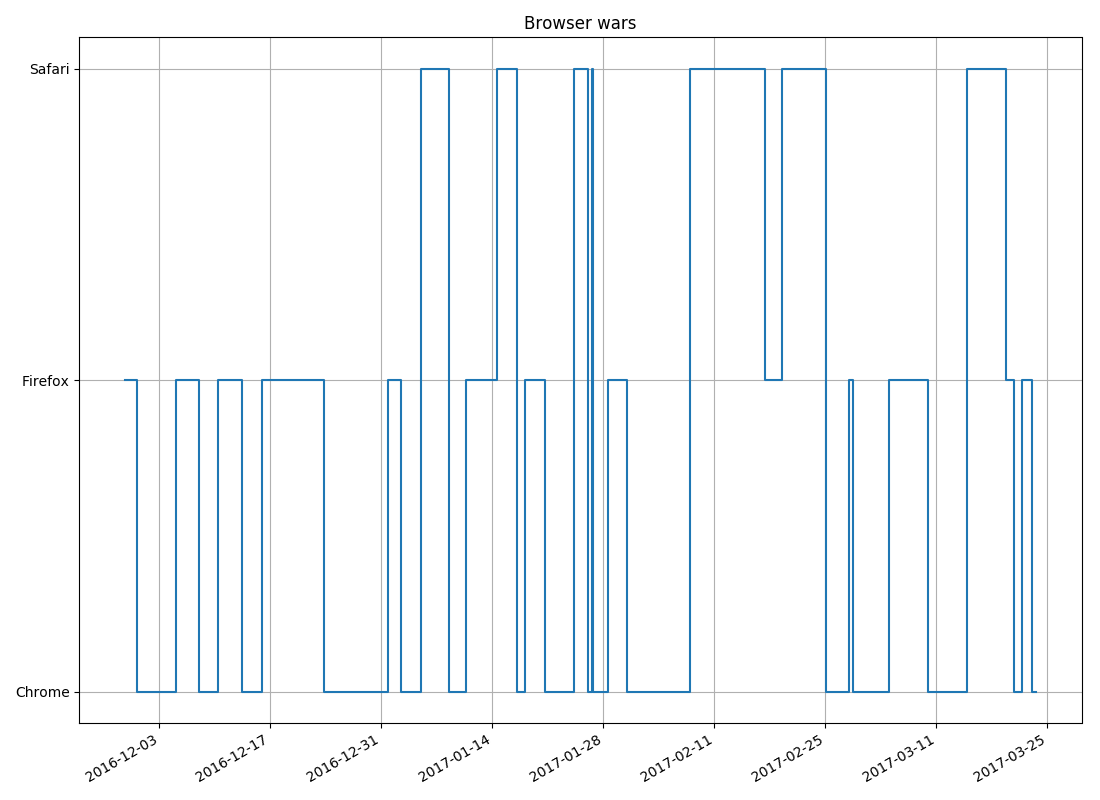
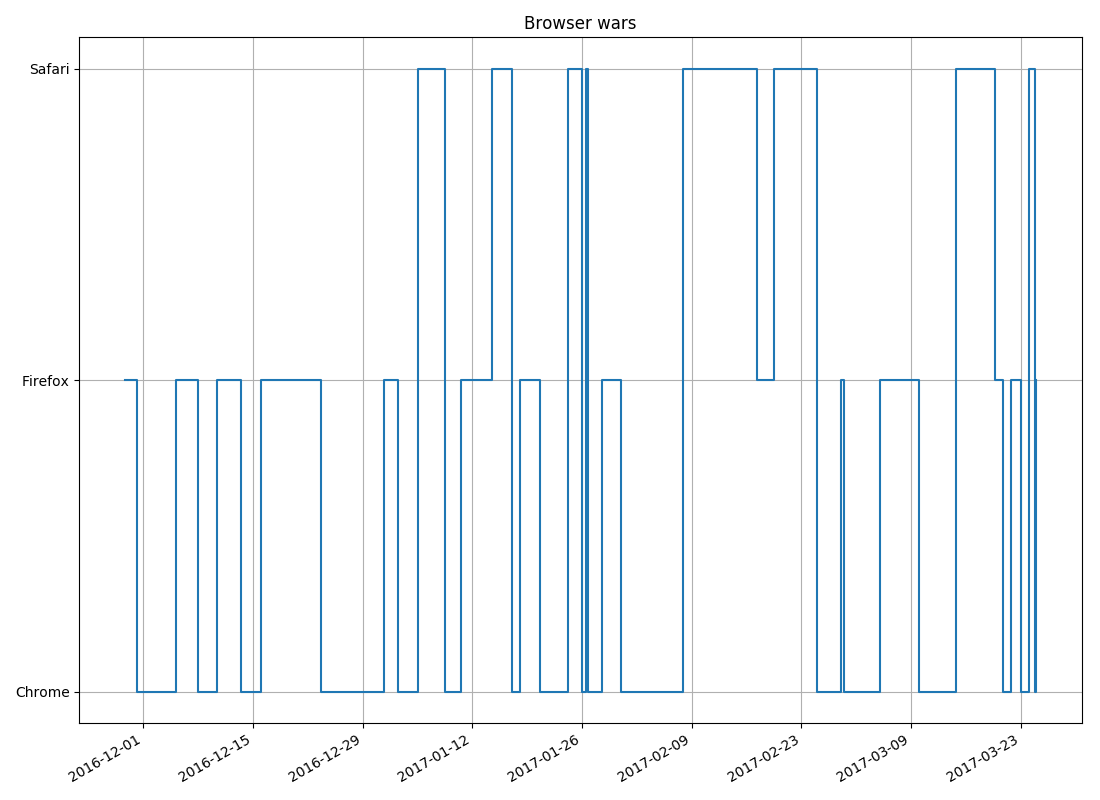
Update

diff --git a/analysis.py b/analysis.py
@@ -138,5 +138,5 @@ def show_breakdown():
 
 
 
-# show_timeseries()
+show_timeseries()
 show_breakdown()
